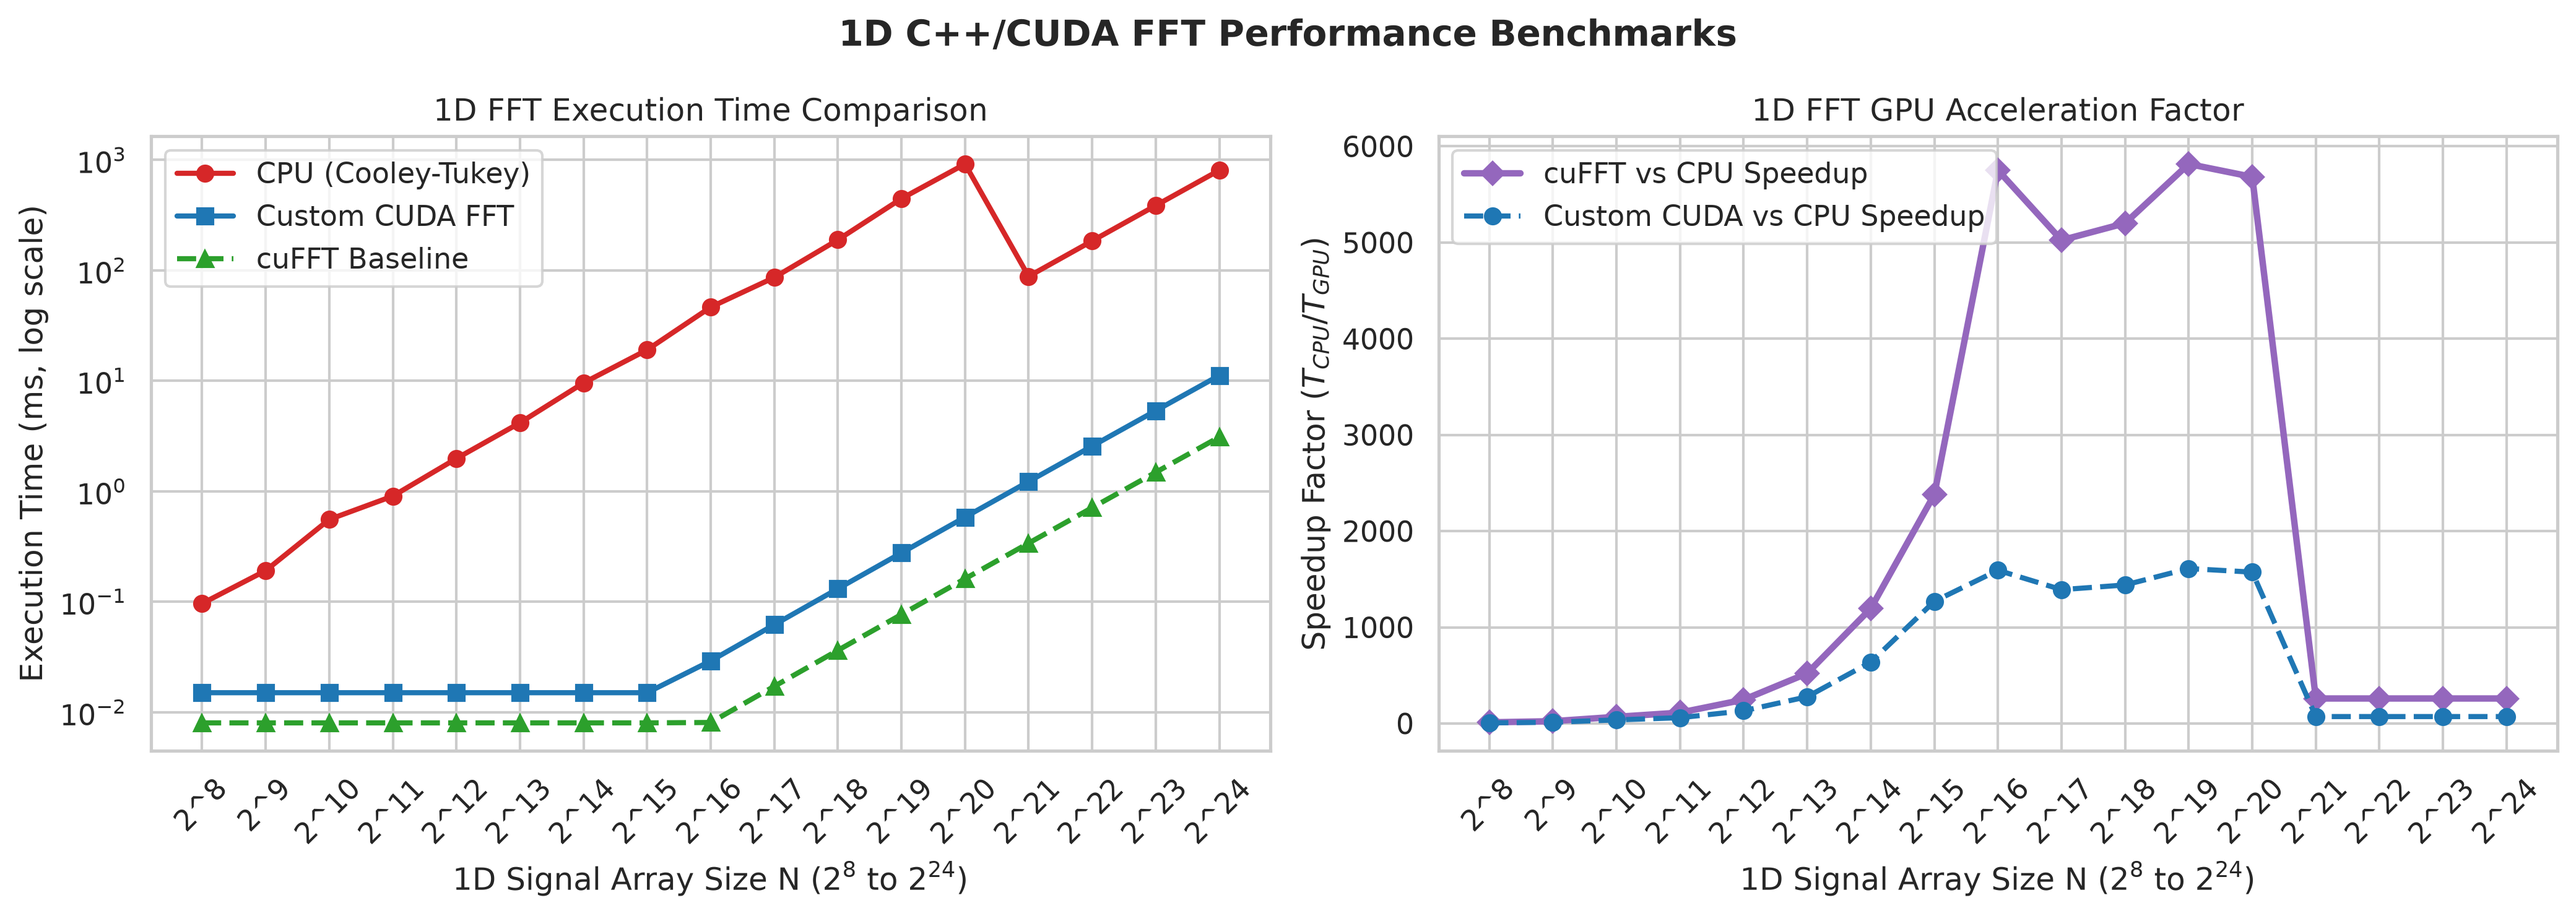
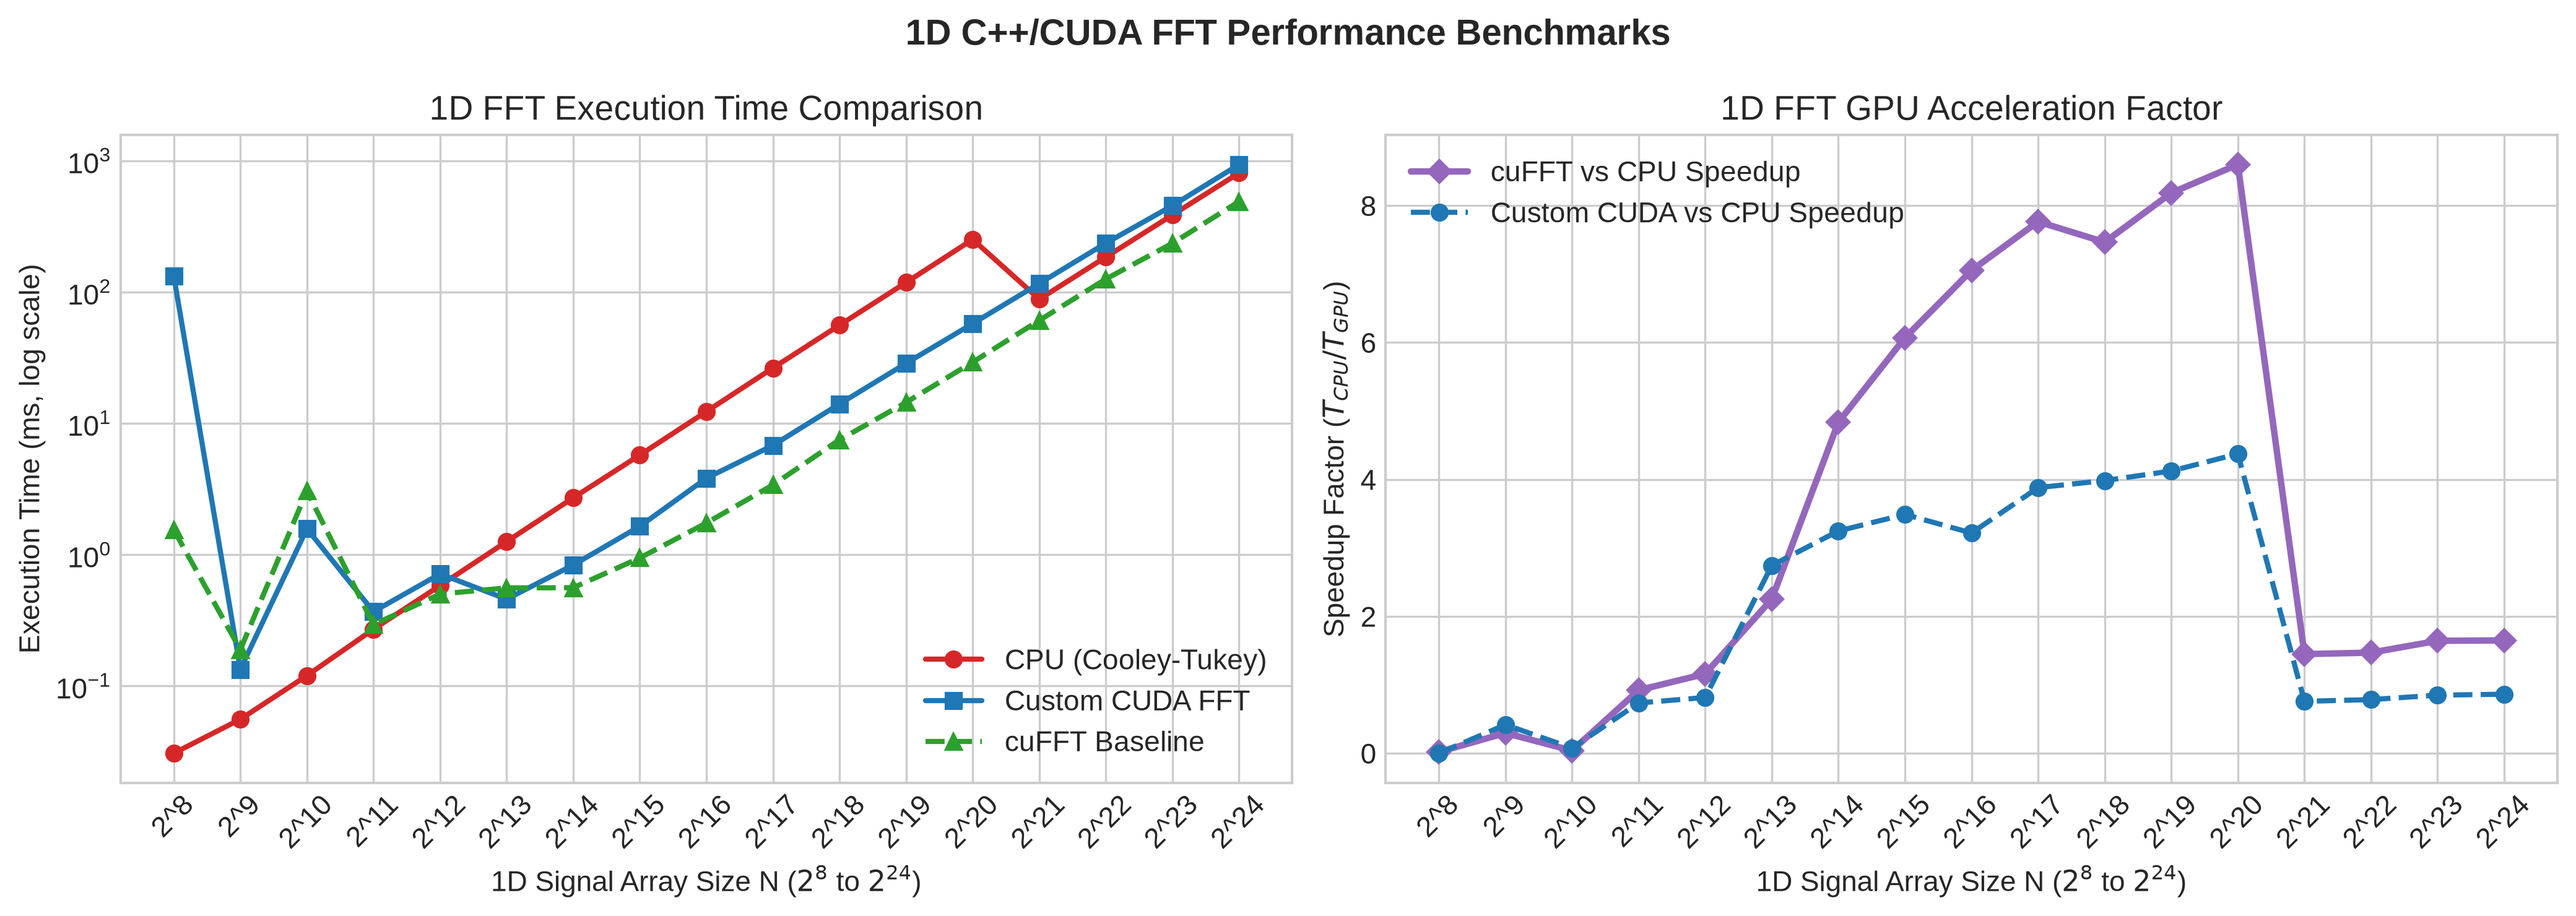
fft1

Changed region(s): [[0.0, 0.0932, 0.9998, 0.9946], [0.3124, 0.0, 0.6873, 0.0622]]

diff --git a/README.md b/README.md
@@ -3,7 +3,7 @@
 ![Build Status](https://img.shields.io/badge/build-passing-brightgreen)
 ![CUDA Version](https://img.shields.io/badge/CUDA-11.8%20%7C%2012.x-76B900?logo=nvidia)
 ![C++ Standard](https://img.shields.io/badge/C%2B%2B-17-blue)
-![License](https://img.shields.io/badge/License-MIT-green)
+<!-- ![License](https://img.shields.io/badge/License-MIT-green) -->
 
 A comprehensive, production-grade C++/CUDA suite covering GPU programming fundamentals, vector and matrix operations, cuBLAS/Thrust integration, custom CUDA Fast Fourier Transform (FFT) algorithms, frequency-domain image denoising, color adjustment, and performance benchmarking.
 
@@ -19,7 +19,7 @@ A comprehensive, production-grade C++/CUDA suite covering GPU programming fundam
 - [FFT & Image Processing Usage](#fft--image-processing-usage)
 - [Performance Benchmarks](#performance-benchmarks)
 - [CUDA Basics Examples](#cuda-basics-examples)
-- [License](#license)
+<!-- - [License](#license) -->
 
 ---
 
@@ -201,6 +201,6 @@ nvcc -O3 -I. n1.cu -o n1
 
 ---
 
-## License
+<!-- ## License
 
-This repository is distributed under the **MIT License**. See `LICENSE` for details.
+This repository is distributed under the **MIT License**. See `LICENSE` for details. -->
